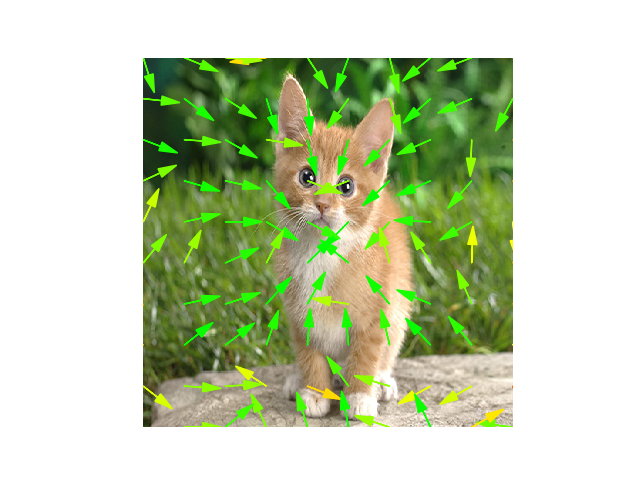
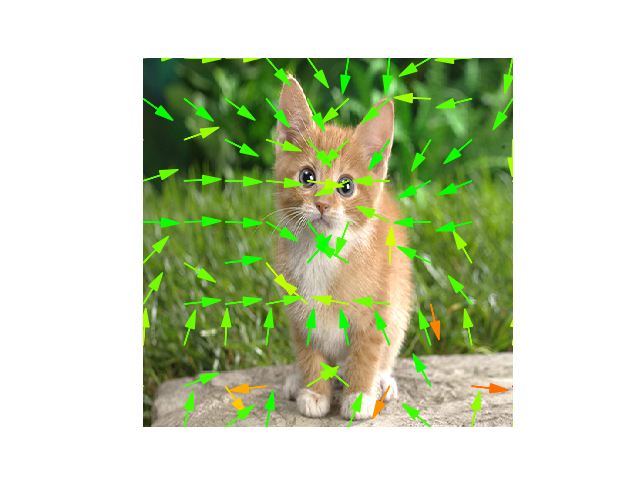
update visualizer

diff --git a/gradient_visualizer.py b/gradient_visualizer.py
@@ -10,7 +10,13 @@ import utils
 class GradientVisualizer(object):
     """GradientVisualizer"""
 
-    def __init__(self, input, target, grid_size=10, criterion='mse', optimizer='SGD', lr=1e-2):
+    def __init__(self, input, target_mat, target_shape=None, grid_size=10, criterion='mse', optimizer='SGD', lr=1e-2):
+        target_shape = input.size() if target_shape is None else [
+            input.size(0), 1] + target_shape
+        target_grid = F.affine_grid(
+            target_mat, target_shape, align_corners=True)
+        target = F.grid_sample(
+            input, target_grid, mode='bilinear', align_corners=True)
         assert input.dim() == target.dim() == 4
         self.input = input
         self.target = target
@@ -67,6 +73,7 @@ class GradientVisualizer(object):
         ax.imshow(utils.torch_img_to_np_img(
             self.input[0]), extent=[-1, 1, -1, 1])
 
+        total_angle = 0
         for gradient in gradient_grid:
             ori_point = np.zeros([2], dtype=np.float32)
             base_loc = 0 - gradient['motion'][0].data.cpu().numpy()
@@ -75,6 +82,7 @@ class GradientVisualizer(object):
             gt_dir = utils.unit_vector(ori_point - base_loc)
 
             angle = utils.angle_between(gradient_dir, gt_dir)
+            total_angle += angle
             try:
                 cur_color = utils.angle_to_color(angle)
             except ValueError:
@@ -85,5 +93,6 @@ class GradientVisualizer(object):
         # plt.show()
         if filename is None:
             filename = sampler.sampling_mode
+        print(filename, angle/len(gradient_grid))
         plt.savefig('./%s.png' % filename)
         plt.close('all')

diff --git a/main.py b/main.py
@@ -29,7 +29,7 @@ if __name__ == "__main__":
     # save_image(linearized_tarnsformed_o, 'linearized_transformed_ori.png')
     # # utils.showimg(linearized_tarnsformed_o)
 
-    utils.torchseed(666)
+    # utils.torchseed(666)
     linearized_sampler = sampler.Sampler('linearized', 'zeros')
     linearized_tarnsformed = linearized_sampler.warp_image(
         cute_cat, trans_mat, out_shape=out_shape)
@@ -39,13 +39,14 @@ if __name__ == "__main__":
     # print(linearized_tarnsformed_o.equal(linearized_tarnsformed))
 
     # target_mo = torch.rand(1, 2)*2 - 1
+    # print(target_mo)
     # target_mat = perturbation_helper.vec2mat_for_translation(target_mo)
     target_mat = perturbation_helper.gen_identity_mat(1)
-    target = bilinear_sampler.warp_image(cute_cat, target_mat, [16, 16])
+    # target = bilinear_sampler.warp_image(cute_cat, target_mat)
 
-    visualizer = GradientVisualizer(input=cute_cat, target=target)
+    visualizer = GradientVisualizer(input=cute_cat, target_mat=target_mat, target_shape=[16,16])
     visualizer.draw_gradient_grid(bilinear_sampler)
     # utils.torchseed(666)
     # visualizer.draw_gradient_grid(linearized_sampler_o, 'linearized_ori')
-    utils.torchseed(666)
+    # utils.torchseed(666)
     visualizer.draw_gradient_grid(linearized_sampler)

diff --git a/sampler.py b/sampler.py
@@ -7,7 +7,7 @@ def cat_grid_z(grid, fill_value: int = 1):
     return torch.cat([grid, torch.full_like(grid[..., 0:1], fill_value)], dim=-1)
 
 
-def linearized_grid_sample(input, grid, num_grid=8, noise_strength=0.5, need_push_away=True, fixed_bias=False, **kwargs):
+def linearized_grid_sample(input, grid, num_grid=8, noise_strength=.5, need_push_away=True, fixed_bias=False, **kwargs):
     """Linearized multi-sampling
 
     Args:
@@ -109,7 +109,7 @@ def grid_sample(input, grid, mode='bilinear', padding_mode='zeros', align_corner
     """
     if mode == 'linearized':
         warped_img = linearized_grid_sample(
-            input, grid, padding_mode=padding_mode, align_corners=align_corners)
+            input, grid, padding_mode=padding_mode, align_corners=True)
     else:
         warped_img = F.grid_sample(
             input, grid, mode, padding_mode=padding_mode, align_corners=align_corners)
